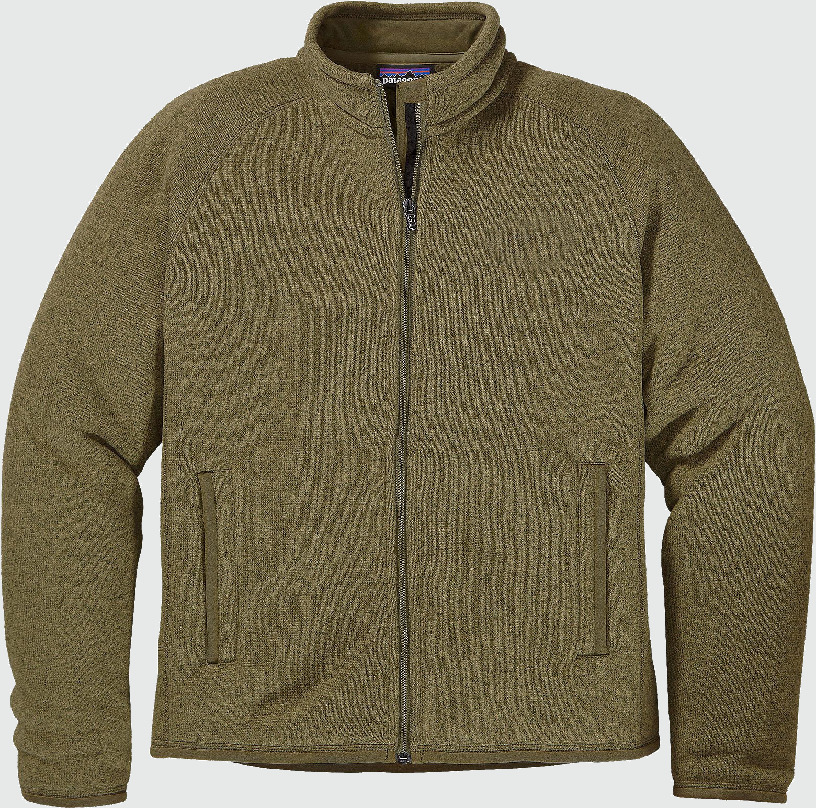
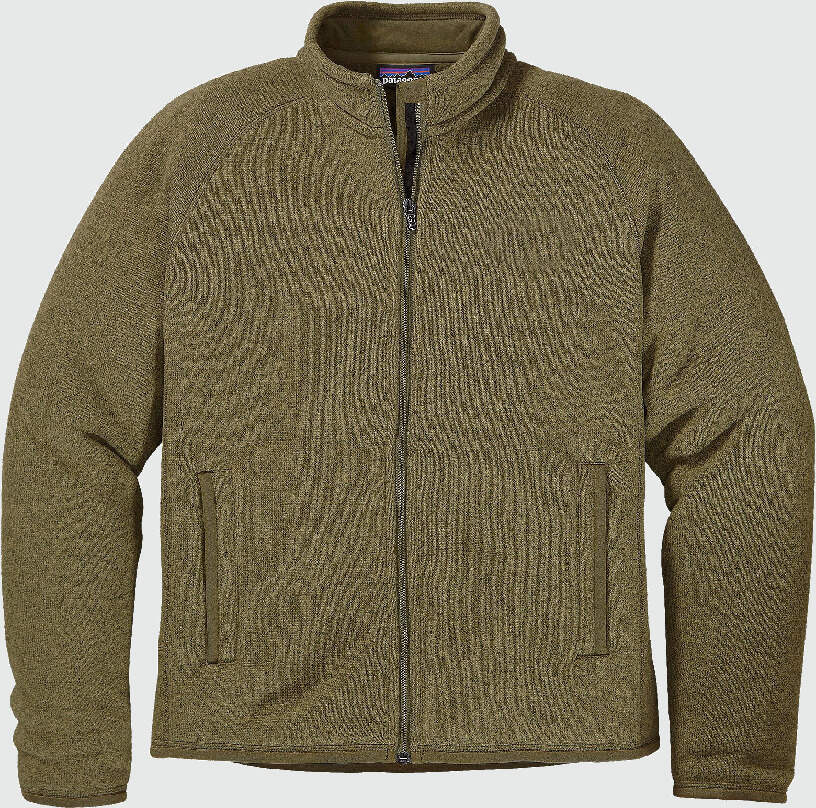
fixing minor porblems in html files and resizing image files

diff --git a/index.html b/index.html
@@ -3,7 +3,7 @@
 
 <head>
     <title>Rainy Days | Home </title>
-    <meta name="description" content="Home page for Rainy Days">
+    <meta name="description" content="Home page for Rainy Days Store">
     <meta name="viewport" content="width=device-width, initial-scale=1">
     <link rel="stylesheet" href="css/style.css" />
 
@@ -18,7 +18,7 @@
 
 <body>
     <header>
-        <a href="index.html" class="logo"><img src="./images/RainyDays_Logo.png" alt="logo" /></a>
+        <a href="index.html" class="logo"><img src="./images/RainyDays_Logo.png" alt="logo for rainy days store" /></a>
         <nav>
             <ul class="nav-links">
                 <li><a href="index.html" class="active">Home</a></li>
@@ -37,7 +37,7 @@
         </div>
         <section>
             <div class="hero-section">
-                <img src="./images/traveler1.jpg" alt="traveler" class="hero-section-image" />
+                <img src="./images/traveler1.jpg" alt="a hiker looking at at the sky" class="hero-section-image" />
                 <div class="hero-section-right">
 
                     <h3>Remain dry how ever much it pours</h3>
@@ -52,7 +52,7 @@
                 <img src="./images/solid-color-image.jpeg" alt="solid color background" />
             </div>
             <div class="decorative-section-image">
-                <img src="./images/traveler2.jpg" alt="traveler2" />
+                <img src="./images/traveler2.jpg" alt="Portrait of a hiker in drenched jacket in heavy rain" />
 
             </div>
         </section>
@@ -61,7 +61,7 @@
                 <img src="./images/solid-color-image.jpeg" alt="solid color background" />
             </div>
             <div class="decorative-section-image">
-                <img src="./images/traveler3.jpg" alt="traveler3" />
+                <img src="./images/traveler3.jpg" alt="Rear view of a hiker in drenched jacket in heavy rain." />
             </div>
         </section>
 

diff --git a/product.html b/product.html
@@ -2,8 +2,8 @@
 <html lang="en">
 
 <head>
-    <title>Rainy Days | Wool fleece jacket</title>
-    <meta name="description" content="Home page for Rainy Days">
+    <title>Rainy Days | Wool Fleece Jacket</title>
+    <meta name="description" content="Wool Fleece Jacket">
     <meta name="viewport" content="width=device-width, initial-scale=1">
     <link rel="stylesheet" href="css/style.css" />
 
@@ -18,7 +18,7 @@
 
 <body>
     <header>
-        <a href="index.html" class="logo"><img src="./images/RainyDays_Logo.png" alt="logo" /></a>
+        <a href="index.html" class="logo"><img src="./images/RainyDays_Logo.png" alt="logo for rainy days store" /></a>
         <nav>
             <ul class="nav-links">
                 <li><a href="index.html">Home</a></li>

diff --git a/contact.html b/contact.html
@@ -2,8 +2,8 @@
 <html lang="en">
 
 <head>
-    <title>Rainy Days | About </title>
-    <meta name="description" content="Home page for Rainy Days">
+    <title>Rainy Days | Contact Us</title>
+    <meta name="description" content="Contact Us page">
     <meta name="viewport" content="width=device-width, initial-scale=1">
     <link rel="stylesheet" href="css/style.css" />
 
@@ -22,7 +22,7 @@
         <nav>
             <ul class="nav-links">
                 <li><a href="index.html">Home</a></li>
-                <li><a href="products.html">Products</li>
+                <li><a href="products.html">Products</a></li>
             </ul>
         </nav>
         <div class="nav-icons">

diff --git a/css/style.css b/css/style.css
@@ -177,7 +177,7 @@ footer{
     display:flex;
     justify-content: space-around;
     align-items: center;
-    background-color: #000;
+    background-color:var(--black-color);
     color: #fff;
     padding: 32px 0;
 }
@@ -267,7 +267,7 @@ footer .logo{
     text-transform: uppercase;
     background: var(--brand-gradient);
     color:#fff;
-    padding:16px 32px;
+    padding:16px 24px;
     border-radius: 66px;
     font-weight:bold;
     box-shadow: 0 0 10px rgba(0,0,0,0.1);

diff --git a/cart.html b/cart.html
@@ -2,8 +2,8 @@
 <html lang="en">
 
 <head>
-    <title>Rainy Days | Wool fleece jacket</title>
-    <meta name="description" content="Home page for Rainy Days">
+    <title>Rainy Days | Cart</title>
+    <meta name="description" content="Shoping Cart Page">
     <meta name="viewport" content="width=device-width, initial-scale=1">
     <link rel="stylesheet" href="css/style.css" />
 

diff --git a/about.html b/about.html
@@ -3,7 +3,7 @@
 
 <head>
     <title>Rainy Days | About </title>
-    <meta name="description" content="Home page for Rainy Days">
+    <meta name="description" content="A page that gives information about the store">
     <meta name="viewport" content="width=device-width, initial-scale=1">
     <link rel="stylesheet" href="css/style.css" />
 

diff --git a/order-success.html b/order-success.html
@@ -3,7 +3,7 @@
 
 <head>
     <title>Rainy Days | Checkout success </title>
-    <meta name="description" content="Home page for Rainy Days">
+    <meta name="description" content="A page for Successful Checkout">
     <meta name="viewport" content="width=device-width, initial-scale=1">
     <link rel="stylesheet" href="css/style.css" />
 

diff --git a/products.html b/products.html
@@ -3,7 +3,7 @@
 
 <head>
     <title>Rainy Days | Products</title>
-    <meta name="description" content="Home page for Rainy Days">
+    <meta name="description" content="Products page for Rainy Days Store">
     <meta name="viewport" content="width=device-width, initial-scale=1">
     <link rel="stylesheet" href="css/style.css" />
 

diff --git a/README.md b/README.md
@@ -1,1 +1,4 @@
-Course Assignment
+# HTML/CSS Course Assignment
+
+I created this website following my design in Figma. I made some minor changes to the design, such as a heading with the linear gradient on the products page; since I found that difficult to apply even though I found a solution for that online, I didn't want to add a code that I didn't understand.
+I mainly used flexbox, and I think I used it a lot. And I also found out that using percentage sizing for elements, flexbox, and media queries is the best combination ever.
